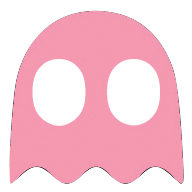
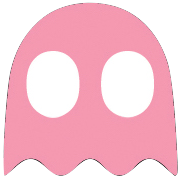
make ghost bigger, eyes need to be reaccommodated

diff --git a/PacMan/Fantasma.java b/PacMan/Fantasma.java
@@ -132,23 +132,20 @@ public class Fantasma implements ImageObserver {
     public void pintaFantasma(Graphics g, int contador){
         //g.fillOval((int)(this.PacManXCoor*.9928*(this.anchoPista/52)-.3*.9928*(this.anchoPista/52)+.9928*this.anchoPista/104), (int)((this.PacManYCoor*.9928*(this.altoPista/31)-.3*.9928*(this.altoPista/31)+.9928*this.altoPista/62)), 25, 25);
         g.setColor(Color.BLUE);
-        Image fantasmaImgTemp;
+        Image fantasmaImgTemp = new ImageIcon(this.fantasmaImg+"2.png").getImage();;
 
         if (!this.volverALaCasa){
             fantasmaImgTemp = new ImageIcon("ojosFantasma.png").getImage();
-            g.drawImage(fantasmaImgTemp, this.xF - (int)(.375*this.anchoPista/52), this.yF - (int)(.375*this.anchoPista/52), (int)(1.75*this.anchoPista/52), (int)(1.75*this.anchoPista/52), this);
         }
 
         else if (!this.modoHuidaActivado){
             if(contador/60.0%.3 < .15) fantasmaImgTemp = new ImageIcon(this.fantasmaImg+"1.png").getImage();
 		    else fantasmaImgTemp = new ImageIcon(this.fantasmaImg+"2.png").getImage();
-            g.drawImage(fantasmaImgTemp, this.xF - (int)(.375*this.anchoPista/52), this.yF - (int)(.375*this.anchoPista/52), (int)(1.75*this.anchoPista/52), (int)(1.75*this.anchoPista/52), this);
         } 
         else if (this.modoHuidaActivado){
             if (tiempoHuida < 10){
                 if(contador/60.0%.3 < .15) fantasmaImgTemp = new ImageIcon("fantasmaAzulAsustado1.png").getImage();
 		        else fantasmaImgTemp = new ImageIcon("fantasmaAzulAsustado2.png").getImage();
-                g.drawImage(fantasmaImgTemp, this.xF - (int)(.375*this.anchoPista/52), this.yF - (int)(.375*this.anchoPista/52), (int)(1.75*this.anchoPista/52), (int)(1.75*this.anchoPista/52), this);
             }
             else {
                 if(contador/60.0%.6 < .3) {
@@ -159,9 +156,12 @@ public class Fantasma implements ImageObserver {
                     if(contador/60.0%.3 < .45) fantasmaImgTemp = new ImageIcon("fantasmaBlanco1.png").getImage();
                     else fantasmaImgTemp = new ImageIcon("fantasmaBlanco2.png").getImage();
                 }
-                g.drawImage(fantasmaImgTemp, this.xF - (int)(.375*this.anchoPista/52), this.yF - (int)(.375*this.anchoPista/52), (int)(1.75*this.anchoPista/52), (int)(1.75*this.anchoPista/52), this);
             }
         }
+
+        g.drawImage(fantasmaImgTemp, this.xF - (int)(.485*this.anchoPista/52), this.yF - (int)(.375*this.anchoPista/52), (int)(1.95*this.anchoPista/52), (int)(1.9*this.anchoPista/52), this);
+
+
         if (!modoHuidaActivado || !this.volverALaCasa) pintarOjos(g);
         //g.fillRect(this.xF, this.yF, (int)(this.anchoPista/52), (int)(this.anchoPista/52));
 
@@ -175,30 +175,30 @@ public class Fantasma implements ImageObserver {
             y2 = 0;
 
         if (this.direccionFantasma == "izq"){
-            x1 = this.xF + (int)(.185*this.anchoPista/52) - (int)(.235*this.anchoPista/52);
+            x1 = this.xF + (int)(.185*1.15*this.anchoPista/52) - (int)(.235*1.15*this.anchoPista/52);
             x2 = x1 + (int)(this.anchoPista/75);
-            y1 = y2 = this.yF + (int)(this.anchoPista/155);
+            y1 = y2 = this.yF + (int)(1.15*this.anchoPista/155);
         }
         else if (this.direccionFantasma == "der"){
-            x1 = this.xF + (int)(.185*this.anchoPista/52);
+            x1 = this.xF + (int)(.185*1.15*this.anchoPista/52);
             x2 = x1 + (int)(this.anchoPista/75);
-            y1 = y2 = this.yF + (int)(this.anchoPista/165);
+            y1 = y2 = this.yF + (int)(1.15*this.anchoPista/165);
         }
         else if (this.direccionFantasma == "arr"){
-            x1 = this.xF + (int)(.07*this.anchoPista/52);
-            x2 = x1 + (int)(this.anchoPista/75);
-            y1 = y2 = this.yF + (int)(this.anchoPista/240);
+            x1 = this.xF + (int)(.07*1.15*this.anchoPista/52);
+            x2 = x1 + (int)(1.15*this.anchoPista/75);
+            y1 = y2 = this.yF + (int)(1.15*this.anchoPista/240);
     
         }
         else if (this.direccionFantasma == "aba"){
-            x1 = this.xF + (int)(.07*this.anchoPista/52);
-            x2 = x1 + (int)(this.anchoPista/75);
-            y1 = y2 = this.yF + (int)(this.anchoPista/125);
+            x1 = this.xF + (int)(.07*1.15*this.anchoPista/52);
+            x2 = x1 + (int)(1.15*this.anchoPista/75);
+            y1 = y2 = this.yF + (int)(1.15*this.anchoPista/125);
         }
 
 
-        g.drawImage(this.ojo, x1, y1, (int)(.275*this.anchoPista/52), (int)(.32*this.anchoPista/52), this);
-        g.drawImage(this.ojo, x2, y2, (int)(.275*this.anchoPista/52), (int)(.32*this.anchoPista/52), this);
+        g.drawImage(this.ojo, x1, y1, (int)(.275*1.25*this.anchoPista/52), (int)(.32*1.25*this.anchoPista/52), this);
+        g.drawImage(this.ojo, x2, y2, (int)(.275*1.25*this.anchoPista/52), (int)(.32*1.25*this.anchoPista/52), this);
 
 }
 
@@ -320,7 +320,7 @@ public class Fantasma implements ImageObserver {
      }
      
      public void modoHuida(int PacManXCoor, int PacManYCoor, String direccionPacMan, int contador) {
-        this.velocidad = 3/2;
+        this.velocidad = 2;
         this.modoHuidaActivado = true;
         this.contador = contador; 
         if (this.coorXF <= PacManXCoor) this.puntoXHuida = this.coorXF - this.caminoX;
@@ -349,7 +349,7 @@ public class Fantasma implements ImageObserver {
 
         if (!salir){
             if (this.matrizPista[this.coorYF - 1][this.coorXF] == 1) this.paredArribaAbajo = true;
-            else if (this.matrizPista[this.coorYF + 1][this.coorXF] == 1) this.paredArribaAbajo = false;
+            else if (this.matrizPista[this.coorYF+2][this.coorXF] == 1 && this.coorYFTemp%1  > .75) this.paredArribaAbajo = false;
 
             if (this.paredArribaAbajo) this.direccionFantasma = "aba";
             else this.direccionFantasma = "arr";
@@ -484,7 +484,7 @@ public class Fantasma implements ImageObserver {
 			else {
 				if (this.salioFantasma && this.volverALaCasa) this.modoPersecusion(this.PacManXCoor, this.PacManYCoor, this.direccionPacMan);
             }
-            if (Math.abs(this.coorXFTemp - PacManXCoorTemp) < .3 && Math.abs(this.coorYFTemp - PacManYCoorTemp) < .3 ) fantasma = true;
+            if (Math.abs(this.coorXFTemp - PacManXCoorTemp) < 1 && Math.abs(this.coorYFTemp - PacManYCoorTemp) < 1 ) fantasma = true;
             if(fantasma) return true;
 
 		} else {
@@ -493,7 +493,7 @@ public class Fantasma implements ImageObserver {
 
 			if (this.salioFantasma && this.volverALaCasa) this.modoHuida(this.PacManXCoor, this.PacManXCoor, this.direccionPacMan, this.contador);
 
-            if (Math.abs(this.coorXFTemp - PacManXCoorTemp) < .3 && Math.abs(this.coorYFTemp - PacManYCoorTemp) < .3 ) fantasma = true;
+            if (Math.abs(this.coorXFTemp - PacManXCoorTemp) < 1 && Math.abs(this.coorYFTemp - PacManYCoorTemp) < 1 ) fantasma = true;
 
 			if (fantasma || !this.volverALaCasa) {
                 boolean volvioACasa = this.volverALaCasa();

diff --git a/PacMan/PacMan.java b/PacMan/PacMan.java
@@ -94,14 +94,14 @@ public class PacMan implements ImageObserver {
 			else if (this.matrizPista[this.coorY][this.coorX-1] == 1 && this.direccionPacman == "izq") this.pacManTemp = this.pacManAbierto1;
 			else if (this.matrizPista[this.coorY-1][this.coorX] == 1 && this.direccionPacman == "arr") this.pacManTemp = this.pacManAbierto1;
 			else if (this.matrizPista[this.coorY+1][this.coorX] == 1 && this.direccionPacman == "aba") this.pacManTemp = this.pacManAbierto1;
-			else if(contador%20 < 5) this.pacManTemp = this.pacManAbierto1;
-			else if(contador%20 < 10) this.pacManTemp = this.pacManAbierto2;
-			else if(contador%20 < 15) this.pacManTemp = this.pacManAbierto1;
+			else if(contador%24 < 6) this.pacManTemp = this.pacManAbierto1;
+			else if(contador%24 < 12) this.pacManTemp = this.pacManAbierto2;
+			else if(contador%24 < 18) this.pacManTemp = this.pacManAbierto1;
 			else this.pacManTemp = this.pacManCerrado;
 		}
-		else if(contador%20 < 5) this.pacManTemp = this.pacManAbierto1;
-		else if(contador%20 < 10) this.pacManTemp = this.pacManAbierto2;
-		else if(contador%20 < 15) this.pacManTemp = this.pacManAbierto1;
+		else if(contador%24 < 6) this.pacManTemp = this.pacManAbierto1;
+		else if(contador%24 < 12) this.pacManTemp = this.pacManAbierto2;
+		else if(contador%24 < 18) this.pacManTemp = this.pacManAbierto1;
 		else this.pacManTemp = this.pacManCerrado;
 		//else this.pacManTemp = this.pacManAbierto2;
 		double ajusteY = 0.0;

diff --git a/PacMan/JuegoPacMan.java b/PacMan/JuegoPacMan.java
@@ -1,3 +1,4 @@
+
 // Agustin Quintanar y Julio Arath Rosales
 // A01636142 y A01630738
 
@@ -5,6 +6,7 @@ import java.awt.Color;
 import java.awt.Dimension;
 import java.awt.Graphics;
 import java.awt.Image;
+import java.awt.Toolkit;
 import java.awt.event.KeyEvent;
 import java.awt.event.KeyListener;
 import java.awt.event.MouseEvent;
@@ -60,7 +62,7 @@ public class JuegoPacMan extends JPanel implements KeyListener{
 		this.pista = new Pista(this.ancho, this.alto);
 		this.matrizPista = pista.getPista();
 
-		this.pacman = new PacMan((int) (this.ancho/2-this.ancho/104), (int)((17)*.9928*(this.alto/31)-.3*.9928*(this.alto/31)+.9928*this.alto/62), this.ancho, this.alto, this.matrizPista);
+		this.pacman = new PacMan((int) (this.ancho/2-this.ancho/104), (int)((17)*.993*(this.alto/31)-.3*.993*(this.alto/31)+.993*this.alto/62), this.ancho, this.alto, this.matrizPista);
 
 		this.coorXPacMan = this.pacman.getCoorX();
 		this.coorYPacMan = this.pacman.getCoorY();
@@ -236,6 +238,7 @@ public class JuegoPacMan extends JPanel implements KeyListener{
 	}
 
 	private void render() {
+		Toolkit.getDefaultToolkit().sync();
 		this.repaint();
 		this.tableroPacMan.repaint();
 	}
